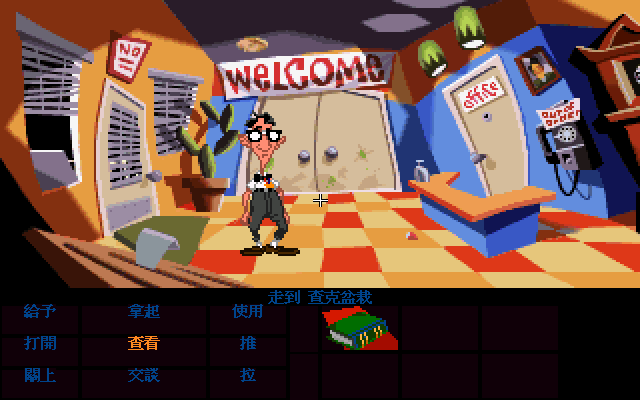
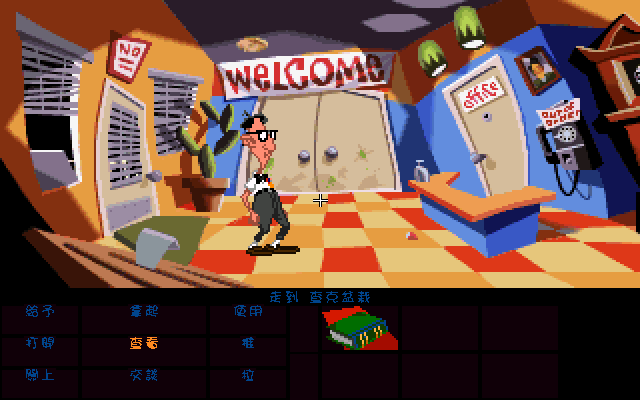
指令列改用華康少女體（獨立字型檔 + 引擎切換）
指令列（給予／打開／查看…）與對白分開用兩套字型：對白倚天明體、指令列
華康少女體（圓體），對照瘋狂大樓 Deluxe 的做法。遊戲夾裡放 chinese_verb.fnt
就啟用，沒放就整個關掉、行為與上游一致。

引擎改三個檔：charset.cpp 多載一份字型並在取字模時看旗標、scumm.h 加成員、
verbs.cpp 在 drawVerb() 畫字的那一小段打開旗標。

[雷] FreeType 的 mono 光柵器會把重量級字面的內白填掉。第一次用
FT_LOAD_TARGET_MONO 描少女體 W7，16x14 糊成一團，差點下結論說這個尺寸做不到。
真正原因不是尺寸是光柵器——改成灰階算完再自己設門檻二值化就清楚了。
門檻 140 是實測平衡點（110 太肥、170 起筆畫開始斷）。

[雷] 試過 Deluxe 的 24x24，撞版面。SCUMM 的句子列（「走到 查克盆栽」）也走
drawVerb()，把 verb 字模放大等於連句子列一起放大，而句子列到指令第一列只有
7 個邏輯像素 = 14 實體像素——正是本專案當初選 16x14 的同一個理由。
引擎載入端仍保留 24x24 支援（由檔案大小回推），將來動了版面就能直接用。

烘字工具加 --source gray；三個打包腳本與 AppImage 都帶上 chinese_verb.fnt
（只進 full 包，與倚天同一條授權界線）。指令列相關截圖一併重拍。

diff --git a/tools/build_eten_font.py b/tools/build_eten_font.py
@@ -84,6 +84,37 @@ def embedded_glyph(face, ch, strike):
     return rows
 
 
+def gray_glyph(face, ch, px_size, thr):
+    """從 TTF/TTC 描點陣，但**走灰階光柵器再自己設門檻**。
+
+    [雷] FreeType 的 mono 光柵器（FT_LOAD_TARGET_MONO）在重量級字面上會把
+    內白填掉——華康少女體 W7 這種粗圓體在 16x14 直接糊成一團，看不出是什麼字。
+    改成灰階算完（FT_LOAD_RENDER 不帶 MONO）再用門檻二值化，同樣尺寸就清楚可讀。
+    門檻越高筆畫越細；110 對少女體 W7 是實測較好的值。
+    """
+    import freetype
+    face.set_pixel_sizes(0, px_size)
+    face.load_char(ch, freetype.FT_LOAD_RENDER)
+    bm = face.glyph.bitmap
+    rows = [[0] * DIM[0] for _ in range(DIM[1])]
+    if not bm.width or not bm.rows:
+        return rows
+    # 置中：verb 字型是獨立檔，不必跟正文字型共用基線
+    x0 = max(0, (DIM[0] - bm.width) // 2)
+    y0 = max(0, (DIM[1] - bm.rows) // 2)
+    for y in range(bm.rows):
+        ty = y0 + y
+        if not 0 <= ty < DIM[1]:
+            continue
+        for x in range(bm.width):
+            tx = x0 + x
+            if not 0 <= tx < DIM[0]:
+                continue
+            if bm.buffer[y * bm.pitch + x] >= thr:
+                rows[ty][tx] = 1
+    return rows
+
+
 def ttf_glyph(face, ch):
     """Big5 缺字時的備援：從 TTF 描同尺寸點陣。"""
     import freetype
@@ -125,10 +156,16 @@ def main():
     ap.add_argument("--rows", type=int, default=0,
                     help="只輸出每字前 N 列（倚天 15 點的第 15 列全空，"
                          "本作預設裁成 14 列讓邏輯字高剛好 7）")
-    ap.add_argument("--source", choices=("eten", "wqy"), default="eten",
+    ap.add_argument("--source", choices=("eten", "wqy", "gray"), default="eten",
                     help="eten = 倚天點陣字（本機用，商業字型）；"
                          "wqy = WenQuanYi Zen Hei Sharp 的 embedded bitmap"
-                         "（GPL + 字體例外，可隨散布包公開）")
+                         "（GPL + 字體例外，可隨散布包公開）；"
+                         "gray = 任意 TTF/TTC 走灰階光柵器 + 門檻（指令列用的少女體走這條）")
+    ap.add_argument("--gray-font", help="--source gray 用的字型檔")
+    ap.add_argument("--gray-px", type=int, default=0,
+                    help="灰階光柵的像素高，預設等於字模高")
+    ap.add_argument("--gray-threshold", type=int, default=110,
+                    help="二值化門檻（0-255），越高筆畫越細")
     ap.add_argument("--wqy-face", type=int, default=2,
                     help="Zen Hei Sharp 在 .ttc 裡的 face index（帶 12-16px strike 的那個）")
     ap.add_argument("--preview")
@@ -147,8 +184,14 @@ def main():
     if "chars" in table:
         table = {ch: (v["lead"], v["trail"]) for ch, v in table["chars"].items()}
     eten = None
-    wqy_face = wqy_strike = None
-    if args.source == "eten":
+    wqy_face = wqy_strike = gray_face = None
+    if args.source == "gray":
+        import freetype
+        if not args.gray_font:
+            sys.exit("--source gray 要給 --gray-font")
+        gray_face = freetype.Face(args.gray_font)
+        print(f"灰階光柵：{args.gray_font} @ {args.gray_px or DIM[1]}px，門檻 {args.gray_threshold}")
+    elif args.source == "eten":
         d = args.eten_dir
         ext = "24" if args.size == 24 else "15"
         native_dim = DIM24 if args.size == 24 else DIM15
@@ -168,7 +211,10 @@ def main():
     face = None
 
     for ch, (lead, trail) in table.items():
-        rows = eten.bitmap(ch) if eten else embedded_glyph(wqy_face, ch, wqy_strike)
+        if gray_face is not None:
+            rows = gray_glyph(gray_face, ch, args.gray_px or DIM[1], args.gray_threshold)
+        else:
+            rows = eten.bitmap(ch) if eten else embedded_glyph(wqy_face, ch, wqy_strike)
         if rows is not None and args.source == "wqy" and not any(any(r) for r in rows):
             rows = None      # strike 缺字，退回 outline
         if rows is None:

diff --git a/docs/50-status.md b/docs/50-status.md
@@ -156,6 +156,12 @@ shell script，對它做 `strings` 永遠是 0。
 `Features compiled in: FLAC` 兩個平台都確認過——沒有它 `monster.sof` 讀不出來，
 而且**不會報錯**，只是整片語音消失。
 
+### 字型分三份
+
+公開的 patch 包用 WQY，本機 full 包用倚天；**指令列另外用華康少女體**
+（`chinese_verb.fnt`），同樣是商業字型的衍生物，只進 full 包。公開包沒有這個檔，
+指令列就沿用正文字型——引擎找不到會靜靜關掉，不是錯誤。
+
 ### 字型分兩份
 
 公開的 patch 包用 **WenQuanYi Zen Hei Sharp 的 15px embedded bitmap**
